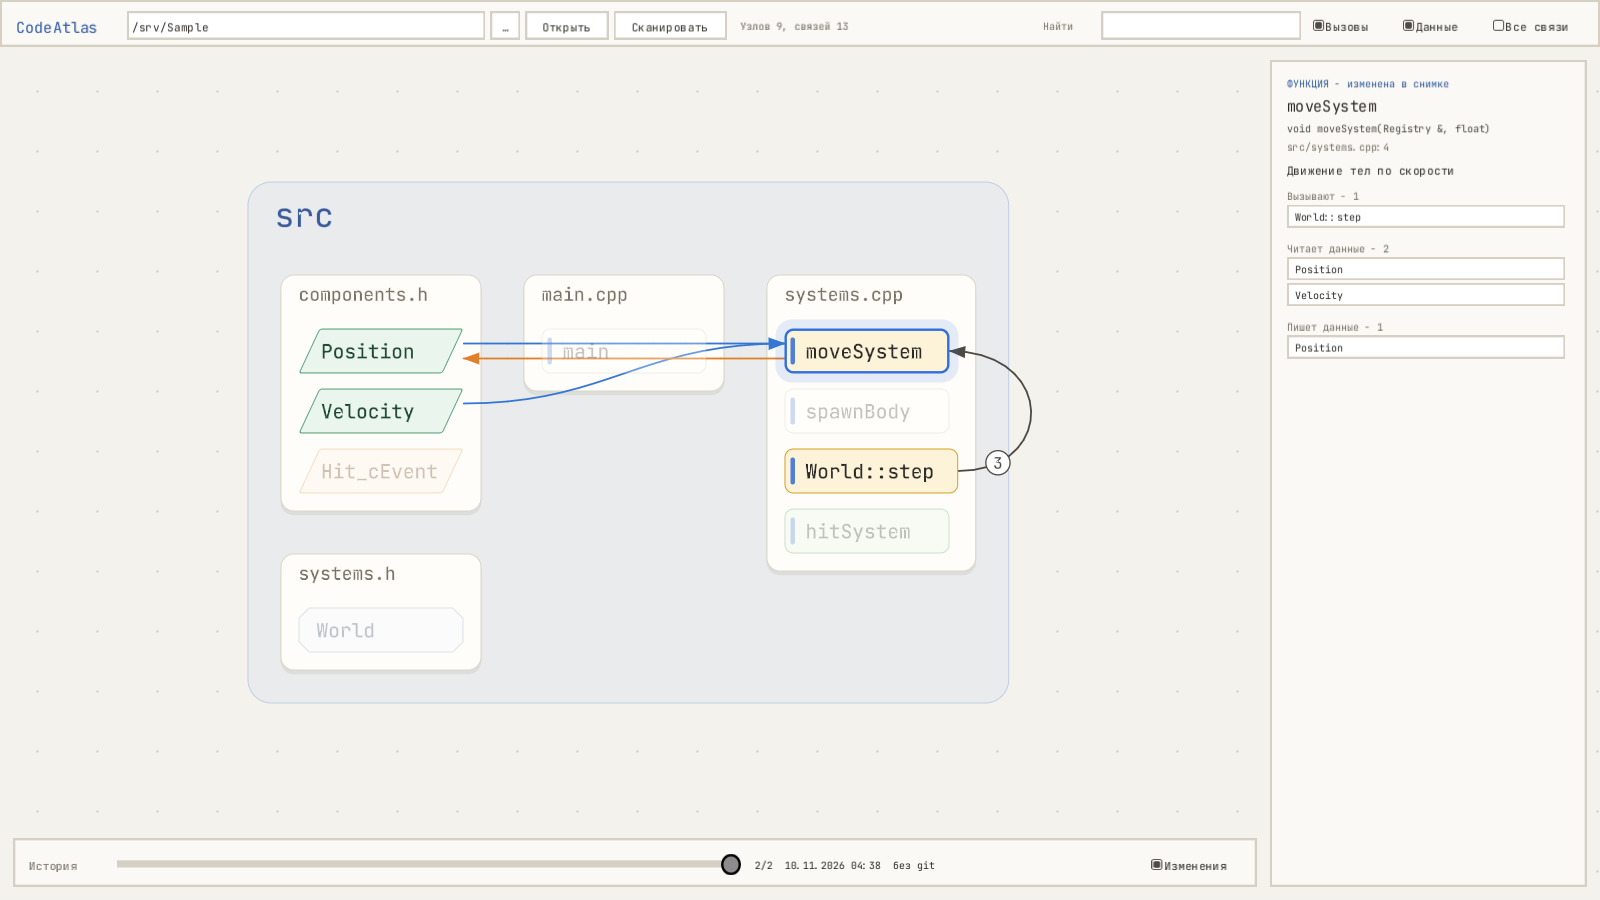
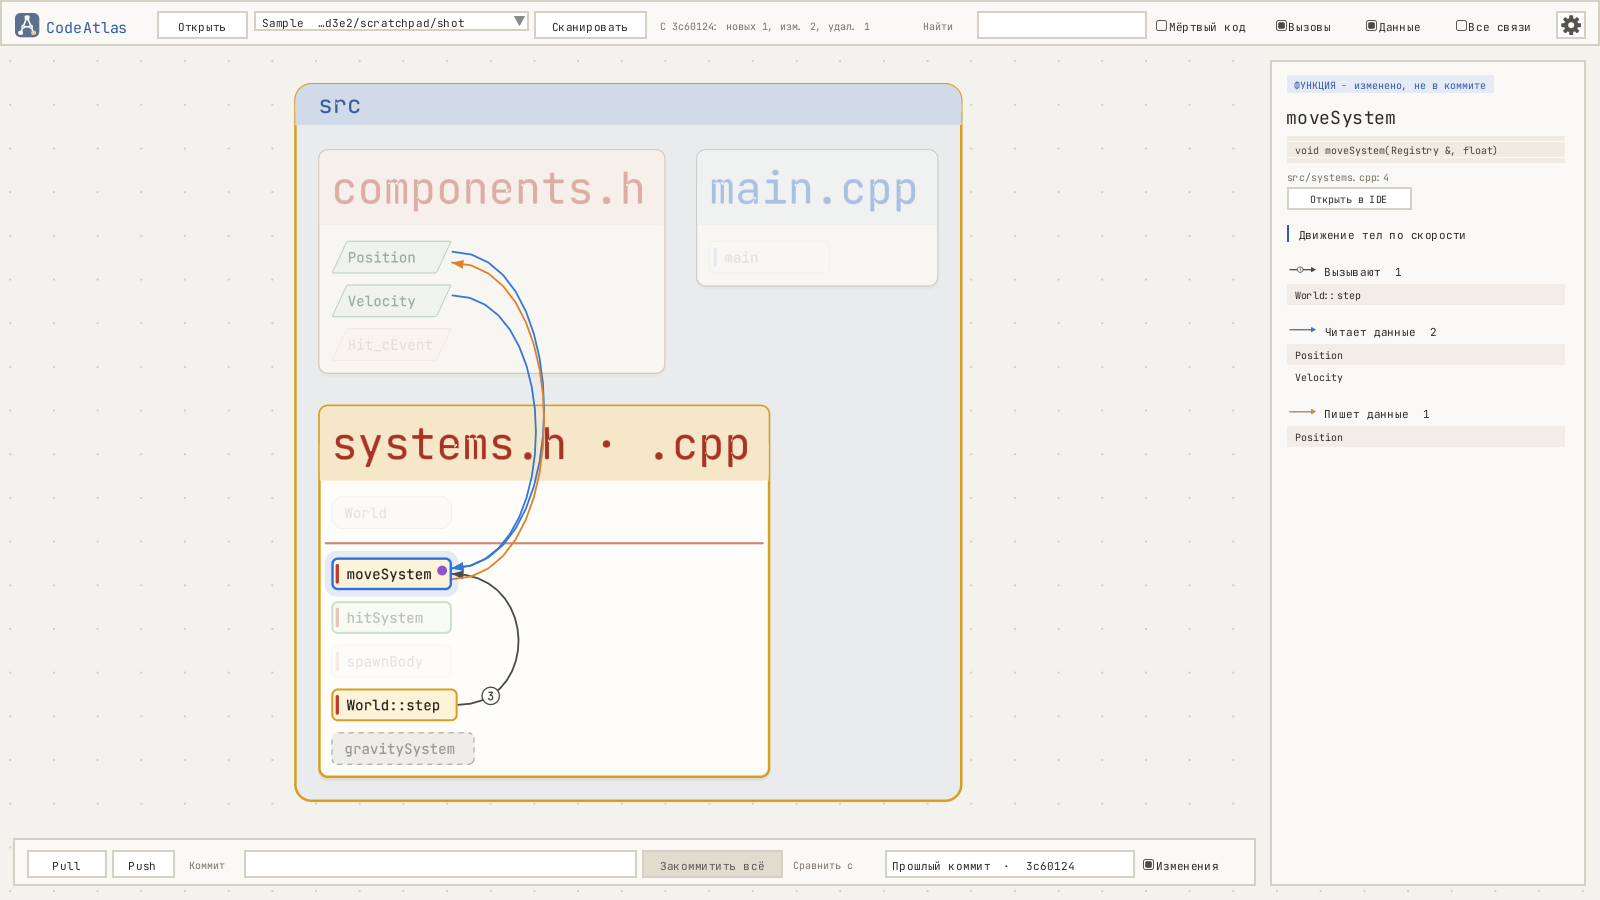
README: новый снимок окна, чужой код исключается сам, короче строка состояния у сравнения и графа коммита
Claude-Session: https://claude.ai/code/session_01PGXcJ9GUQEgQL6HVgqGt9F

diff --git a/App/App.cpp b/App/App.cpp
@@ -866,8 +866,8 @@ void App::updateComparison() {
         if (addedCount + changedCount + removedCount == 0)
             statusLabel->setText(L"С " + shortHash + L" в коде ничего не менялось");
         else
-            statusLabel->setText(L"С " + shortHash + L": новых " + std::to_wstring(addedCount) + L", изменённых " + std::to_wstring(changedCount) +
-                                 L", удалённых " + std::to_wstring(removedCount));
+            statusLabel->setText(L"С " + shortHash + L": новых " + std::to_wstring(addedCount) + L", изм. " + std::to_wstring(changedCount) +
+                                 L", удал. " + std::to_wstring(removedCount));
 
         // Места призраков: строками под блоками своего файла в ширину рамки (прежние места могли занять новые блоки, а файл - переехать);
         // файла на карте больше нет - прежнее место узла, если было
@@ -1044,7 +1044,7 @@ void App::startNextJob() {
     case JobKind::CommitGraph:
         jobFilesTotal = 0;
         jobFilesRead = 0;
-        statusLabel->setText(L"Граф коммита " + stringToWString(jobCommit.substr(0, 7)) + L": отличия от рабочей папки…");
+        statusLabel->setText(L"Граф " + stringToWString(jobCommit.substr(0, 7)) + L": отличия от рабочей папки…");
         scanProgress->setValue(0, vgui::Pixel(47, 111, 223));
         scanProgress->setVisible(true);
         jobThread = std::thread([this, dataDir]() {
@@ -1134,7 +1134,7 @@ void App::pollJob() {
 
     // Граф коммита: сначала файлы той версии из git, потом разбор единиц с ними
     if (jobKind == JobKind::CommitGraph) {
-        std::wstring commitText = L"Граф коммита " + stringToWString(jobCommit.substr(0, 7));
+        std::wstring commitText = L"Граф " + stringToWString(jobCommit.substr(0, 7));
         int filesTotal = jobFilesTotal;
         int filesRead = jobFilesRead;
         if (total > 0) {

diff --git a/README.md b/README.md
@@ -1,6 +1,6 @@
 # CodeAtlas
 
-Карта C++ кода и шейдеров GLSL: функции, вызовы и данные на постоянной раскладке, строится через clang, сама подхватывает правки и сравнивается с любым коммитом git.
+Карта C++ кода и шейдеров GLSL: функции, вызовы и данные на постоянной раскладке. Строится через clang без настройки проекта, сама подхватывает правки, сравнивается с любым коммитом git; pull, коммит и push - прямо из окна.
 
 ![CodeAtlas](docs/screenshot.png)
 
@@ -52,7 +52,7 @@ cmake -G Ninja -B build -DCMAKE_BUILD_TYPE=Release && ninja -C build
 
 Запуск: `CodeAtlas [папка проекта]` (без папки - последний открытый проект). Сканирование без окна: `CodeAtlas --scan <папка проекта> [--out <файл графа>]`.
 
-От анализируемого проекта ничего не нужно: без compile_commands.json CodeAtlas берёт все исходники C/C++ его папки, заголовки ищет от корня и по всем папкам проекта, стандарт C++20. Флагов сборки он при этом не знает: код под #ifdef разбирается с макросами по умолчанию, вызовы через типы библиотек вне папки проекта могут потеряться. Если compile_commands.json есть (CMake пишет его с `set(CMAKE_EXPORT_COMPILE_COMMANDS ON)` и генератором Ninja или Makefile), берётся он - с точными флагами каждого файла. Ищется сам: папка `compile_commands` из codeatlas.yaml (по умолчанию `build`), папки проекта до трёх уровней и соседние папки сборки вида `build-<проект>-...`; лежит в другом месте - указать файл кнопкой «Открыть», выбор запоминается.
+От анализируемого проекта ничего не нужно. Чужой код на карту не идёт сам: папки библиотек по имени (Libs, third_party, external, vendor, deps и т.п.) и папки со своей лицензией (LICENSE, COPYING) или своим .git; остальное исключается в codeatlas.yaml. Без compile_commands.json CodeAtlas берёт все исходники C/C++ его папки, заголовки ищет от корня и по всем папкам проекта, стандарт C++20. Флагов сборки он при этом не знает: код под #ifdef разбирается с макросами по умолчанию, вызовы через типы библиотек вне папки проекта могут потеряться. Если compile_commands.json есть (CMake пишет его с `set(CMAKE_EXPORT_COMPILE_COMMANDS ON)` и генератором Ninja или Makefile), берётся он - с точными флагами каждого файла. Ищется сам: папка `compile_commands` из codeatlas.yaml (по умолчанию `build`), папки проекта до трёх уровней и соседние папки сборки вида `build-<проект>-...`; лежит в другом месте - указать файл кнопкой «Открыть», выбор запоминается.
 
 ## Где данные
 
@@ -62,7 +62,7 @@ cmake -G Ninja -B build -DCMAKE_BUILD_TYPE=Release && ninja -C build
 
 - Analyzer - разбор проекта через libclang (потоками, по compile_commands.json), разобранное хранится по файлам: из него собирается граф, правленые файлы пересканируются отдельно, так же собирается проект на коммите
 - Graph - граф: узлы, связи, текстовый файл
-- Project - шаблон проекта codeatlas.yaml
+- Project - шаблон проекта codeatlas.yaml и чужой код (библиотеки), найденный сам
 - Layout - постоянная раскладка: места блоков, пометки, вид; раздвигание наложений
 - Settings - настройки программы (общие для проектов)
 - Git - команды git: коммиты, файлы на коммите, pull, коммит, push

diff --git a/docs/PROJECT_TEMPLATE.md b/docs/PROJECT_TEMPLATE.md
@@ -13,7 +13,8 @@ name: VoxelGame
 # CMake пишет его при set(CMAKE_EXPORT_COMPILE_COMMANDS ON) с генератором Ninja или Makefile
 compile_commands: build
 
-# Папки от корня проекта, которые на карту не попадают (сторонние библиотеки и т.п.). Папка сборки не попадает и так
+# Папки от корня проекта, которые на карту не попадают. Сторонние библиотеки не попадают и так: папки Libs, third_party, external, vendor,
+# deps и т.п. и папки со своей лицензией (LICENSE, COPYING) или своим .git; папка сборки - тоже
 exclude: [Libs, Physics/Bullet3]
 
 # Вызовы, чьи явные шаблонные аргументы - компоненты: registry.view<A, B>(), get<A>(e), emplace<A>(e) и т.п.
